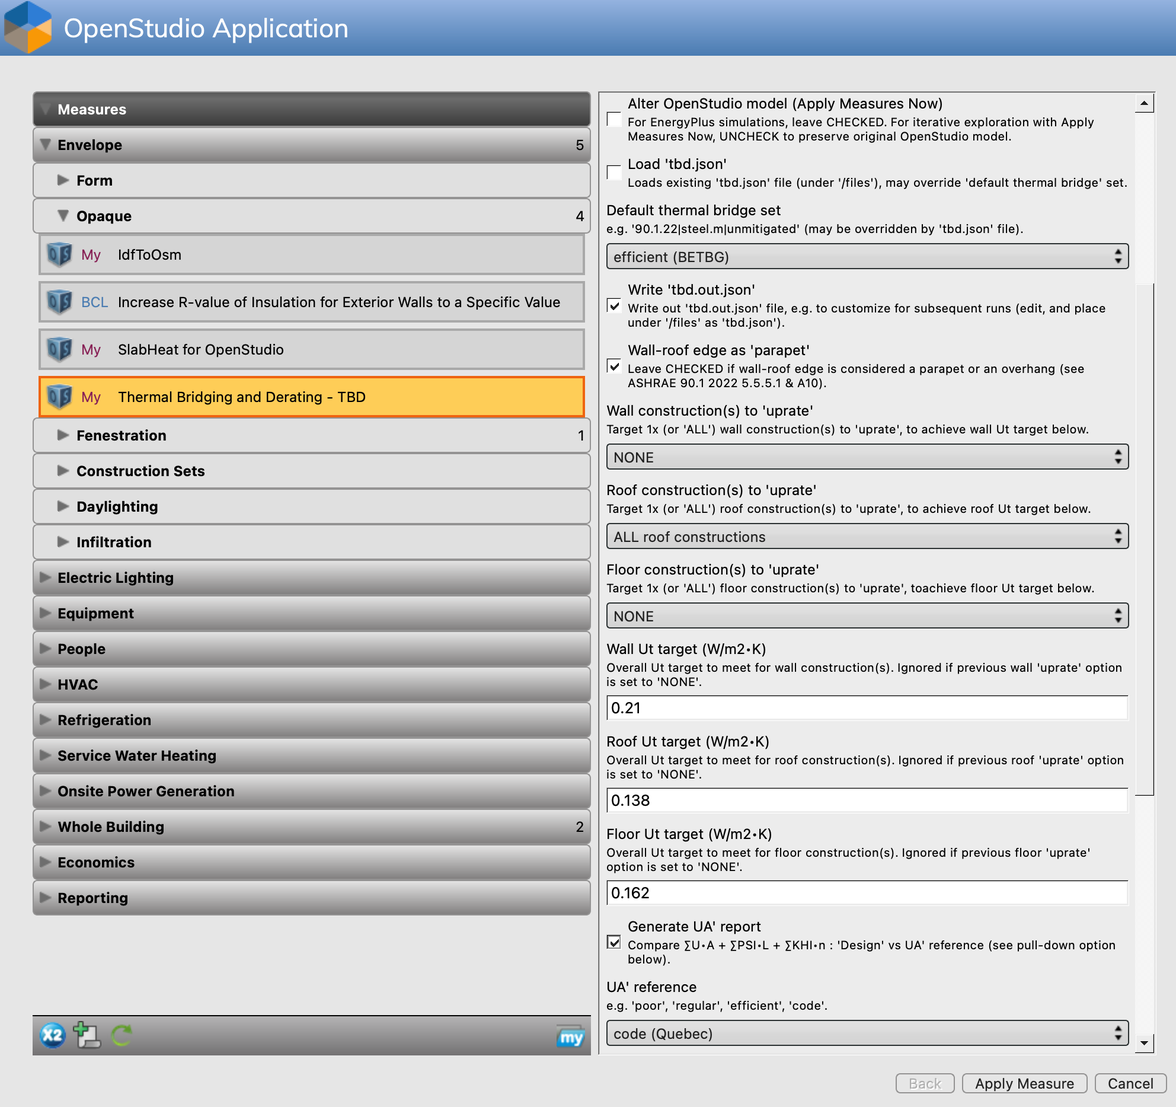
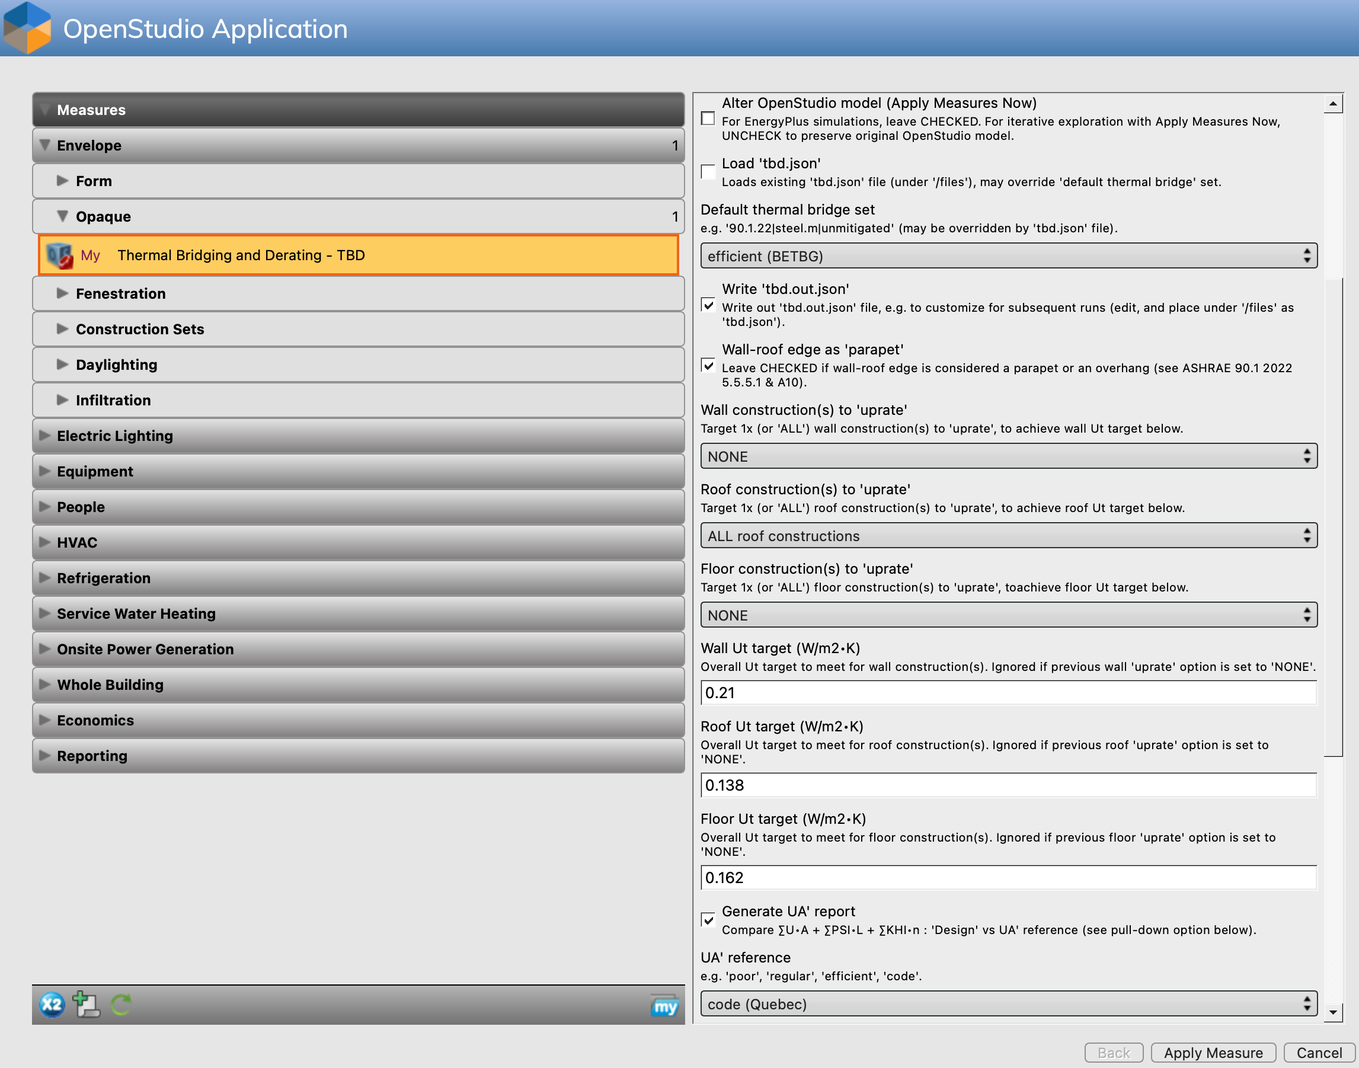
Updates to TBD v345 & OS v310

diff --git a/_site/pages/subs.html b/_site/pages/subs.html
@@ -4,7 +4,7 @@
     <meta charset='utf-8'>
     <meta name="viewport" content="width=device-width, initial-scale=1">
     <meta http-equiv="X-UA-Compatible" content="IE=edge">
-    <link rel="stylesheet" href="/assets/css/style.css?v=870febd2b583b3fff3f0737972620bcd6754eb4a">
+    <link rel="stylesheet" href="/assets/css/style.css?v=ed39b08523b3d20c018a3fb0f93d13f36ab0ec98">
     <link rel="stylesheet" type="text/css" href="/assets/css/print.css" media="print">
     <!--[if lt IE 9]>
     <script src="//html5shiv.googlecode.com/svn/trunk/html5.js"></script>
@@ -12,7 +12,7 @@
 
 <!-- Begin Jekyll SEO tag v2.8.0 -->
 <title>Fenestration | TBD</title>
-<meta name="generator" content="Jekyll v3.9.2" />
+<meta name="generator" content="Jekyll v3.10.0" />
 <meta property="og:title" content="Fenestration" />
 <meta property="og:locale" content="en_US" />
 <meta name="description" content="Thermal Bridging &amp; Derating" />
@@ -50,8 +50,8 @@
         </header>
         <section id="downloads" class="clearfix">
           
-          <a href="https://github.com/rd2/tbd/releases/download/v3.4.4/tbd.zip" id="download-zip" class="button"><span>Download .zip</span></a>
-          <a href="https://github.com/rd2/tbd/releases/download/v3.4.4/tbd.tar.gz" id="download-tar-gz" class="button"><span>Download .tar.gz</span></a>
+          <a href="https://github.com/rd2/tbd/releases/download/v3.4.5/tbd.zip" id="download-zip" class="button"><span>Download .zip</span></a>
+          <a href="https://github.com/rd2/tbd/releases/download/v3.4.5/tbd.tar.gz" id="download-tar-gz" class="button"><span>Download .tar.gz</span></a>
           
 	
         </section>
@@ -71,7 +71,7 @@
 
 <ul>
   <li>
-    <p>Unless modelling a <em>tubular daylighting device</em> (<a href="https://bigladdersoftware.com/epx/docs/24-1/input-output-reference/group-daylighting.html#daylightingdevicetubular" title="Tubular Daylighting Device">TDD</a>), a fenestrated surface must <em>align</em> with its <em>base</em> surface, i.e. they both must share the same 3D plane and the <em>subsurface</em> must <em>fit</em> within <em>base</em> surface boundaries.</p>
+    <p>Unless modelling a <em>tubular daylighting device</em> (<a href="https://bigladdersoftware.com/epx/docs/25-1/input-output-reference/group-daylighting.html#daylightingdevicetubular" title="Tubular Daylighting Device">TDD</a>), a fenestrated surface must <em>align</em> with its <em>base</em> surface, i.e. they both must share the same 3D plane and the <em>subsurface</em> must <em>fit</em> within <em>base</em> surface boundaries.</p>
   </li>
   <li>
     <p>TBD tags fenestration perimeter edges (shared with its <em>base</em> surface) as either “<strong>head</strong>”, “<strong>sill</strong>” or “<strong>jamb</strong>” (depending on the situation, the door “sill” edge may later be overridden as a “grade” or “rimjoist” edge).</p>
@@ -86,7 +86,7 @@
 
 <h3 id="frame-and-dividers"><a href="#frame-and-dividers">Frame and Dividers</a></h3>
 
-<p>OpenStudio (and EnergyPlus) users can optionally associate <a href="https://bigladdersoftware.com/epx/docs/24-1/input-output-reference/group-thermal-zone-description-geometry.html#windowpropertyframeanddivider" title="OpenStudio Frame and Dividers">frame &amp; divider</a> properties to most glazed <em>subsurfaces</em>. In a nutshell, this allows fenestration product frames (and dividers) to be modelled/simulated separately from glazing layers, in line with NFRC 100 rating procedures. This allows <em>inter alia</em> a more robust assessment of fenestration aspect ratios on energy performance (e.g. 1x larger fenestration product outperforming many narrower, smaller products). OpenStudio fenestration, with <em>frame &amp; divider</em> properties, requires 3D modelling of the glazing portion ONLY of each <em>subsurface</em> - not the <em>rough opening</em>, as illustrated in <strong>Figure 1C</strong> (same entrance design).</p>
+<p>OpenStudio (and EnergyPlus) users can optionally associate <a href="https://bigladdersoftware.com/epx/docs/25-1/input-output-reference/group-thermal-zone-description-geometry.html#windowpropertyframeanddivider" title="OpenStudio Frame and Dividers">frame &amp; divider</a> properties to most glazed <em>subsurfaces</em>. In a nutshell, this allows fenestration product frames (and dividers) to be modelled/simulated separately from glazing layers, in line with NFRC 100 rating procedures. This allows <em>inter alia</em> a more robust assessment of fenestration aspect ratios on energy performance (e.g. 1x larger fenestration product outperforming many narrower, smaller products). OpenStudio fenestration, with <em>frame &amp; divider</em> properties, requires 3D modelling of the glazing portion ONLY of each <em>subsurface</em> - not the <em>rough opening</em>, as illustrated in <strong>Figure 1C</strong> (same entrance design).</p>
 
 <p><img src="../assets/images/FD.png" alt="OpenStudio Frame &amp; Dividers" title="OpenStudio Frame &amp; Dividers" /></p>
 

diff --git a/_site/pages/settings.html b/_site/pages/settings.html
@@ -4,7 +4,7 @@
     <meta charset='utf-8'>
     <meta name="viewport" content="width=device-width, initial-scale=1">
     <meta http-equiv="X-UA-Compatible" content="IE=edge">
-    <link rel="stylesheet" href="/assets/css/style.css?v=870febd2b583b3fff3f0737972620bcd6754eb4a">
+    <link rel="stylesheet" href="/assets/css/style.css?v=ed39b08523b3d20c018a3fb0f93d13f36ab0ec98">
     <link rel="stylesheet" type="text/css" href="/assets/css/print.css" media="print">
     <!--[if lt IE 9]>
     <script src="//html5shiv.googlecode.com/svn/trunk/html5.js"></script>
@@ -12,7 +12,7 @@
 
 <!-- Begin Jekyll SEO tag v2.8.0 -->
 <title>Settings | TBD</title>
-<meta name="generator" content="Jekyll v3.9.2" />
+<meta name="generator" content="Jekyll v3.10.0" />
 <meta property="og:title" content="Settings" />
 <meta property="og:locale" content="en_US" />
 <meta name="description" content="Thermal Bridging &amp; Derating" />
@@ -50,8 +50,8 @@
         </header>
         <section id="downloads" class="clearfix">
           
-          <a href="https://github.com/rd2/tbd/releases/download/v3.4.4/tbd.zip" id="download-zip" class="button"><span>Download .zip</span></a>
-          <a href="https://github.com/rd2/tbd/releases/download/v3.4.4/tbd.tar.gz" id="download-tar-gz" class="button"><span>Download .tar.gz</span></a>
+          <a href="https://github.com/rd2/tbd/releases/download/v3.4.5/tbd.zip" id="download-zip" class="button"><span>Download .zip</span></a>
+          <a href="https://github.com/rd2/tbd/releases/download/v3.4.5/tbd.tar.gz" id="download-tar-gz" class="button"><span>Download .tar.gz</span></a>
           
 	
         </section>
@@ -127,7 +127,7 @@
 
 <ul>
   <li>a single <em>exposed</em> surface</li>
-  <li>another surface referencing an <a href="https://bigladdersoftware.com/epx/docs/24-1/input-output-reference/group-advanced-surface-concepts.html#surfacepropertyothersidecoefficients">OtherSideCoefficients</a> object</li>
+  <li>another surface referencing an <a href="https://bigladdersoftware.com/epx/docs/25-1/input-output-reference/group-advanced-surface-concepts.html#surfacepropertyothersidecoefficients">OtherSideCoefficients</a> object</li>
 </ul>
 
 <p>If the latter instead faces adiabatic conditions or references <em>itself</em> (often used in conjunction with space multipliers), TBD usually maintains a “transition” tag (which can also be <a href="./custom.html" title="TBD customization">reset</a> if needed). In the 5-story building illustrated below, only 3 stories would need to be modelled (saving on simulation run times), as long as the intermediate story holds spaces and loads with multipliers (here, <strong>3x</strong>). Two groups of surfaces would need to be modelled as adiabatic:</p>

diff --git a/_site/pages/kiva.html b/_site/pages/kiva.html
@@ -4,7 +4,7 @@
     <meta charset='utf-8'>
     <meta name="viewport" content="width=device-width, initial-scale=1">
     <meta http-equiv="X-UA-Compatible" content="IE=edge">
-    <link rel="stylesheet" href="/assets/css/style.css?v=870febd2b583b3fff3f0737972620bcd6754eb4a">
+    <link rel="stylesheet" href="/assets/css/style.css?v=ed39b08523b3d20c018a3fb0f93d13f36ab0ec98">
     <link rel="stylesheet" type="text/css" href="/assets/css/print.css" media="print">
     <!--[if lt IE 9]>
     <script src="//html5shiv.googlecode.com/svn/trunk/html5.js"></script>
@@ -12,7 +12,7 @@
 
 <!-- Begin Jekyll SEO tag v2.8.0 -->
 <title>KIVA | TBD</title>
-<meta name="generator" content="Jekyll v3.9.2" />
+<meta name="generator" content="Jekyll v3.10.0" />
 <meta property="og:title" content="KIVA" />
 <meta property="og:locale" content="en_US" />
 <meta name="description" content="Thermal Bridging &amp; Derating" />
@@ -49,15 +49,15 @@
           <h2>Thermal Bridging & Derating</h2>
         </header>
         <section id="downloads" class="clearfix">
-
-          <a href="https://github.com/rd2/tbd/releases/download/v3.4.4/tbd.zip" id="download-zip" class="button"><span>Download .zip</span></a>
-          <a href="https://github.com/rd2/tbd/releases/download/v3.4.4/tbd.tar.gz" id="download-tar-gz" class="button"><span>Download .tar.gz</span></a>
-
-
+          
+          <a href="https://github.com/rd2/tbd/releases/download/v3.4.5/tbd.zip" id="download-zip" class="button"><span>Download .zip</span></a>
+          <a href="https://github.com/rd2/tbd/releases/download/v3.4.5/tbd.tar.gz" id="download-tar-gz" class="button"><span>Download .tar.gz</span></a>
+          
+	
         </section>
         <hr>
         <section id="main_content">
-          <h3 id="kiva"><a href="https://bigladdersoftware.com/epx/docs/24-1/engineering-reference/ground-heat-transfer-calculations-using-kiva.html">KIVA</a></h3>
+          <h3 id="kiva"><a href="https://bigladdersoftware.com/epx/docs/25-1/engineering-reference/ground-heat-transfer-calculations-using-kiva.html">KIVA</a></h3>
 
 <p>A specialized library that accurately - and very efficiently - handles foundation heat transfer within EnergyPlus. For designers, it offers several practical features that make it a one-stop solution for most projects:</p>
 
@@ -105,9 +105,9 @@
         </section>
 
         <footer>
-
+        
           TBD is maintained by <a href="https://github.com/rd2">rd2</a><br>
-
+        
           This page was generated by <a href="https://pages.github.com">GitHub Pages</a>.
         </footer>
 

diff --git a/_site/index.html b/_site/index.html
@@ -4,7 +4,7 @@
     <meta charset='utf-8'>
     <meta name="viewport" content="width=device-width, initial-scale=1">
     <meta http-equiv="X-UA-Compatible" content="IE=edge">
-    <link rel="stylesheet" href="/assets/css/style.css?v=870febd2b583b3fff3f0737972620bcd6754eb4a">
+    <link rel="stylesheet" href="/assets/css/style.css?v=ed39b08523b3d20c018a3fb0f93d13f36ab0ec98">
     <link rel="stylesheet" type="text/css" href="/assets/css/print.css" media="print">
     <!--[if lt IE 9]>
     <script src="//html5shiv.googlecode.com/svn/trunk/html5.js"></script>
@@ -12,7 +12,7 @@
 
 <!-- Begin Jekyll SEO tag v2.8.0 -->
 <title>TBD | Thermal Bridging &amp; Derating</title>
-<meta name="generator" content="Jekyll v3.9.2" />
+<meta name="generator" content="Jekyll v3.10.0" />
 <meta property="og:title" content="TBD" />
 <meta property="og:locale" content="en_US" />
 <meta name="description" content="Thermal Bridging &amp; Derating" />
@@ -50,8 +50,8 @@
         </header>
         <section id="downloads" class="clearfix">
           
-          <a href="https://github.com/rd2/tbd/releases/download/v3.4.4/tbd.zip" id="download-zip" class="button"><span>Download .zip</span></a>
-          <a href="https://github.com/rd2/tbd/releases/download/v3.4.4/tbd.tar.gz" id="download-tar-gz" class="button"><span>Download .tar.gz</span></a>
+          <a href="https://github.com/rd2/tbd/releases/download/v3.4.5/tbd.zip" id="download-zip" class="button"><span>Download .zip</span></a>
+          <a href="https://github.com/rd2/tbd/releases/download/v3.4.5/tbd.tar.gz" id="download-tar-gz" class="button"><span>Download .tar.gz</span></a>
           
 	
         </section>

diff --git a/_site/pages/custom.html b/_site/pages/custom.html
@@ -4,7 +4,7 @@
     <meta charset='utf-8'>
     <meta name="viewport" content="width=device-width, initial-scale=1">
     <meta http-equiv="X-UA-Compatible" content="IE=edge">
-    <link rel="stylesheet" href="/assets/css/style.css?v=870febd2b583b3fff3f0737972620bcd6754eb4a">
+    <link rel="stylesheet" href="/assets/css/style.css?v=ed39b08523b3d20c018a3fb0f93d13f36ab0ec98">
     <link rel="stylesheet" type="text/css" href="/assets/css/print.css" media="print">
     <!--[if lt IE 9]>
     <script src="//html5shiv.googlecode.com/svn/trunk/html5.js"></script>
@@ -12,7 +12,7 @@
 
 <!-- Begin Jekyll SEO tag v2.8.0 -->
 <title>Customization | TBD</title>
-<meta name="generator" content="Jekyll v3.9.2" />
+<meta name="generator" content="Jekyll v3.10.0" />
 <meta property="og:title" content="Customization" />
 <meta property="og:locale" content="en_US" />
 <meta name="description" content="Thermal Bridging &amp; Derating" />
@@ -50,8 +50,8 @@
         </header>
         <section id="downloads" class="clearfix">
           
-          <a href="https://github.com/rd2/tbd/releases/download/v3.4.4/tbd.zip" id="download-zip" class="button"><span>Download .zip</span></a>
-          <a href="https://github.com/rd2/tbd/releases/download/v3.4.4/tbd.tar.gz" id="download-tar-gz" class="button"><span>Download .tar.gz</span></a>
+          <a href="https://github.com/rd2/tbd/releases/download/v3.4.5/tbd.zip" id="download-zip" class="button"><span>Download .zip</span></a>
+          <a href="https://github.com/rd2/tbd/releases/download/v3.4.5/tbd.tar.gz" id="download-tar-gz" class="button"><span>Download .tar.gz</span></a>
           
 	
         </section>

diff --git a/_site/pages/launch.html b/_site/pages/launch.html
@@ -4,7 +4,7 @@
     <meta charset='utf-8'>
     <meta name="viewport" content="width=device-width, initial-scale=1">
     <meta http-equiv="X-UA-Compatible" content="IE=edge">
-    <link rel="stylesheet" href="/assets/css/style.css?v=870febd2b583b3fff3f0737972620bcd6754eb4a">
+    <link rel="stylesheet" href="/assets/css/style.css?v=ed39b08523b3d20c018a3fb0f93d13f36ab0ec98">
     <link rel="stylesheet" type="text/css" href="/assets/css/print.css" media="print">
     <!--[if lt IE 9]>
     <script src="//html5shiv.googlecode.com/svn/trunk/html5.js"></script>
@@ -12,7 +12,7 @@
 
 <!-- Begin Jekyll SEO tag v2.8.0 -->
 <title>Launching | TBD</title>
-<meta name="generator" content="Jekyll v3.9.2" />
+<meta name="generator" content="Jekyll v3.10.0" />
 <meta property="og:title" content="Launching" />
 <meta property="og:locale" content="en_US" />
 <meta name="description" content="Thermal Bridging &amp; Derating" />
@@ -50,8 +50,8 @@
         </header>
         <section id="downloads" class="clearfix">
           
-          <a href="https://github.com/rd2/tbd/releases/download/v3.4.4/tbd.zip" id="download-zip" class="button"><span>Download .zip</span></a>
-          <a href="https://github.com/rd2/tbd/releases/download/v3.4.4/tbd.tar.gz" id="download-tar-gz" class="button"><span>Download .tar.gz</span></a>
+          <a href="https://github.com/rd2/tbd/releases/download/v3.4.5/tbd.zip" id="download-zip" class="button"><span>Download .zip</span></a>
+          <a href="https://github.com/rd2/tbd/releases/download/v3.4.5/tbd.tar.gz" id="download-tar-gz" class="button"><span>Download .tar.gz</span></a>
           
 	
         </section>

diff --git a/_site/pages/reports.html b/_site/pages/reports.html
@@ -4,7 +4,7 @@
     <meta charset='utf-8'>
     <meta name="viewport" content="width=device-width, initial-scale=1">
     <meta http-equiv="X-UA-Compatible" content="IE=edge">
-    <link rel="stylesheet" href="/assets/css/style.css?v=870febd2b583b3fff3f0737972620bcd6754eb4a">
+    <link rel="stylesheet" href="/assets/css/style.css?v=ed39b08523b3d20c018a3fb0f93d13f36ab0ec98">
     <link rel="stylesheet" type="text/css" href="/assets/css/print.css" media="print">
     <!--[if lt IE 9]>
     <script src="//html5shiv.googlecode.com/svn/trunk/html5.js"></script>
@@ -12,7 +12,7 @@
 
 <!-- Begin Jekyll SEO tag v2.8.0 -->
 <title>Reporting | TBD</title>
-<meta name="generator" content="Jekyll v3.9.2" />
+<meta name="generator" content="Jekyll v3.10.0" />
 <meta property="og:title" content="Reporting" />
 <meta property="og:locale" content="en_US" />
 <meta name="description" content="Thermal Bridging &amp; Derating" />
@@ -50,8 +50,8 @@
         </header>
         <section id="downloads" class="clearfix">
           
-          <a href="https://github.com/rd2/tbd/releases/download/v3.4.4/tbd.zip" id="download-zip" class="button"><span>Download .zip</span></a>
-          <a href="https://github.com/rd2/tbd/releases/download/v3.4.4/tbd.tar.gz" id="download-tar-gz" class="button"><span>Download .tar.gz</span></a>
+          <a href="https://github.com/rd2/tbd/releases/download/v3.4.5/tbd.zip" id="download-zip" class="button"><span>Download .zip</span></a>
+          <a href="https://github.com/rd2/tbd/releases/download/v3.4.5/tbd.tar.gz" id="download-tar-gz" class="button"><span>Download .tar.gz</span></a>
           
 	
         </section>

diff --git a/_site/pages/ut.html b/_site/pages/ut.html
@@ -4,7 +4,7 @@
     <meta charset='utf-8'>
     <meta name="viewport" content="width=device-width, initial-scale=1">
     <meta http-equiv="X-UA-Compatible" content="IE=edge">
-    <link rel="stylesheet" href="/assets/css/style.css?v=870febd2b583b3fff3f0737972620bcd6754eb4a">
+    <link rel="stylesheet" href="/assets/css/style.css?v=ed39b08523b3d20c018a3fb0f93d13f36ab0ec98">
     <link rel="stylesheet" type="text/css" href="/assets/css/print.css" media="print">
     <!--[if lt IE 9]>
     <script src="//html5shiv.googlecode.com/svn/trunk/html5.js"></script>
@@ -12,7 +12,7 @@
 
 <!-- Begin Jekyll SEO tag v2.8.0 -->
 <title>Uprating | TBD</title>
-<meta name="generator" content="Jekyll v3.9.2" />
+<meta name="generator" content="Jekyll v3.10.0" />
 <meta property="og:title" content="Uprating" />
 <meta property="og:locale" content="en_US" />
 <meta name="description" content="Thermal Bridging &amp; Derating" />
@@ -50,8 +50,8 @@
         </header>
         <section id="downloads" class="clearfix">
           
-          <a href="https://github.com/rd2/tbd/releases/download/v3.4.4/tbd.zip" id="download-zip" class="button"><span>Download .zip</span></a>
-          <a href="https://github.com/rd2/tbd/releases/download/v3.4.4/tbd.tar.gz" id="download-tar-gz" class="button"><span>Download .tar.gz</span></a>
+          <a href="https://github.com/rd2/tbd/releases/download/v3.4.5/tbd.zip" id="download-zip" class="button"><span>Download .zip</span></a>
+          <a href="https://github.com/rd2/tbd/releases/download/v3.4.5/tbd.tar.gz" id="download-tar-gz" class="button"><span>Download .tar.gz</span></a>
           
 	
         </section>

diff --git a/_site/pages/ua.html b/_site/pages/ua.html
@@ -4,7 +4,7 @@
     <meta charset='utf-8'>
     <meta name="viewport" content="width=device-width, initial-scale=1">
     <meta http-equiv="X-UA-Compatible" content="IE=edge">
-    <link rel="stylesheet" href="/assets/css/style.css?v=870febd2b583b3fff3f0737972620bcd6754eb4a">
+    <link rel="stylesheet" href="/assets/css/style.css?v=ed39b08523b3d20c018a3fb0f93d13f36ab0ec98">
     <link rel="stylesheet" type="text/css" href="/assets/css/print.css" media="print">
     <!--[if lt IE 9]>
     <script src="//html5shiv.googlecode.com/svn/trunk/html5.js"></script>
@@ -12,7 +12,7 @@
 
 <!-- Begin Jekyll SEO tag v2.8.0 -->
 <title>UA’ | TBD</title>
-<meta name="generator" content="Jekyll v3.9.2" />
+<meta name="generator" content="Jekyll v3.10.0" />
 <meta property="og:title" content="UA’" />
 <meta property="og:locale" content="en_US" />
 <meta name="description" content="Thermal Bridging &amp; Derating" />
@@ -50,8 +50,8 @@
         </header>
         <section id="downloads" class="clearfix">
           
-          <a href="https://github.com/rd2/tbd/releases/download/v3.4.4/tbd.zip" id="download-zip" class="button"><span>Download .zip</span></a>
-          <a href="https://github.com/rd2/tbd/releases/download/v3.4.4/tbd.tar.gz" id="download-tar-gz" class="button"><span>Download .tar.gz</span></a>
+          <a href="https://github.com/rd2/tbd/releases/download/v3.4.5/tbd.zip" id="download-zip" class="button"><span>Download .zip</span></a>
+          <a href="https://github.com/rd2/tbd/releases/download/v3.4.5/tbd.tar.gz" id="download-tar-gz" class="button"><span>Download .tar.gz</span></a>
           
 	
         </section>

diff --git a/_site/pages/subs.md b/_site/pages/subs.md
@@ -10,7 +10,7 @@ In OpenStudio, this 5-section entrance would be greatly simplified, and modelled
 
 ![OpenStudio Entrance](../assets/images/os_entrance.png "OpenStudio Entrance")  
 
-- Unless modelling a _tubular daylighting device_ ([TDD](https://bigladdersoftware.com/epx/docs/24-1/input-output-reference/group-daylighting.html#daylightingdevicetubular "Tubular Daylighting Device")), a fenestrated surface must _align_ with its _base_ surface, i.e. they both must share the same 3D plane and the _subsurface_ must _fit_ within _base_ surface boundaries.
+- Unless modelling a _tubular daylighting device_ ([TDD](https://bigladdersoftware.com/epx/docs/25-1/input-output-reference/group-daylighting.html#daylightingdevicetubular "Tubular Daylighting Device")), a fenestrated surface must _align_ with its _base_ surface, i.e. they both must share the same 3D plane and the _subsurface_ must _fit_ within _base_ surface boundaries.
 
 - TBD tags fenestration perimeter edges (shared with its _base_ surface) as either "__head__", "__sill__" or "__jamb__" (depending on the situation, the door "sill" edge may later be overridden as a "grade" or "rimjoist" edge).
 
@@ -20,7 +20,7 @@ In OpenStudio, this 5-section entrance would be greatly simplified, and modelled
 
 ### [Frame and Dividers](#frame-and-dividers)
 
-OpenStudio (and EnergyPlus) users can optionally associate [frame & divider](https://bigladdersoftware.com/epx/docs/24-1/input-output-reference/group-thermal-zone-description-geometry.html#windowpropertyframeanddivider "OpenStudio Frame and Dividers") properties to most glazed _subsurfaces_. In a nutshell, this allows fenestration product frames (and dividers) to be modelled/simulated separately from glazing layers, in line with NFRC 100 rating procedures. This allows _inter alia_ a more robust assessment of fenestration aspect ratios on energy performance (e.g. 1x larger fenestration product outperforming many narrower, smaller products). OpenStudio fenestration, with _frame & divider_ properties, requires 3D modelling of the glazing portion ONLY of each _subsurface_ - not the _rough opening_, as illustrated in __Figure 1C__ (same entrance design).
+OpenStudio (and EnergyPlus) users can optionally associate [frame & divider](https://bigladdersoftware.com/epx/docs/25-1/input-output-reference/group-thermal-zone-description-geometry.html#windowpropertyframeanddivider "OpenStudio Frame and Dividers") properties to most glazed _subsurfaces_. In a nutshell, this allows fenestration product frames (and dividers) to be modelled/simulated separately from glazing layers, in line with NFRC 100 rating procedures. This allows _inter alia_ a more robust assessment of fenestration aspect ratios on energy performance (e.g. 1x larger fenestration product outperforming many narrower, smaller products). OpenStudio fenestration, with _frame & divider_ properties, requires 3D modelling of the glazing portion ONLY of each _subsurface_ - not the _rough opening_, as illustrated in __Figure 1C__ (same entrance design).
 
 ![OpenStudio Frame & Dividers](../assets/images/FD.png "OpenStudio Frame & Dividers")
 

diff --git a/_site/pages/settings.md b/_site/pages/settings.md
@@ -68,7 +68,7 @@ Some _flat_ edges aren't mild "transitions" at all, like "__spandrel__" panel pe
 TBD considers an edge as delineating a demising (or "__party__") partition, when it links both:  
 
 - a single _exposed_ surface
-- another surface referencing an [OtherSideCoefficients](https://bigladdersoftware.com/epx/docs/24-1/input-output-reference/group-advanced-surface-concepts.html#surfacepropertyothersidecoefficients) object  
+- another surface referencing an [OtherSideCoefficients](https://bigladdersoftware.com/epx/docs/25-1/input-output-reference/group-advanced-surface-concepts.html#surfacepropertyothersidecoefficients) object  
 
 If the latter instead faces adiabatic conditions or references _itself_ (often used in conjunction with space multipliers), TBD usually maintains a "transition" tag (which can also be [reset](./custom.html "TBD customization") if needed). In the 5-story building illustrated below, only 3 stories would need to be modelled (saving on simulation run times), as long as the intermediate story holds spaces and loads with multipliers (here, __3x__). Two groups of surfaces would need to be modelled as adiabatic:  
 

diff --git a/_site/pages/kiva.md b/_site/pages/kiva.md
@@ -1,4 +1,4 @@
-### [KIVA](https://bigladdersoftware.com/epx/docs/24-1/engineering-reference/ground-heat-transfer-calculations-using-kiva.html)
+### [KIVA](https://bigladdersoftware.com/epx/docs/25-1/engineering-reference/ground-heat-transfer-calculations-using-kiva.html)
 
 A specialized library that accurately - and very efficiently - handles foundation heat transfer within EnergyPlus. For designers, it offers several practical features that make it a one-stop solution for most projects:  
 
